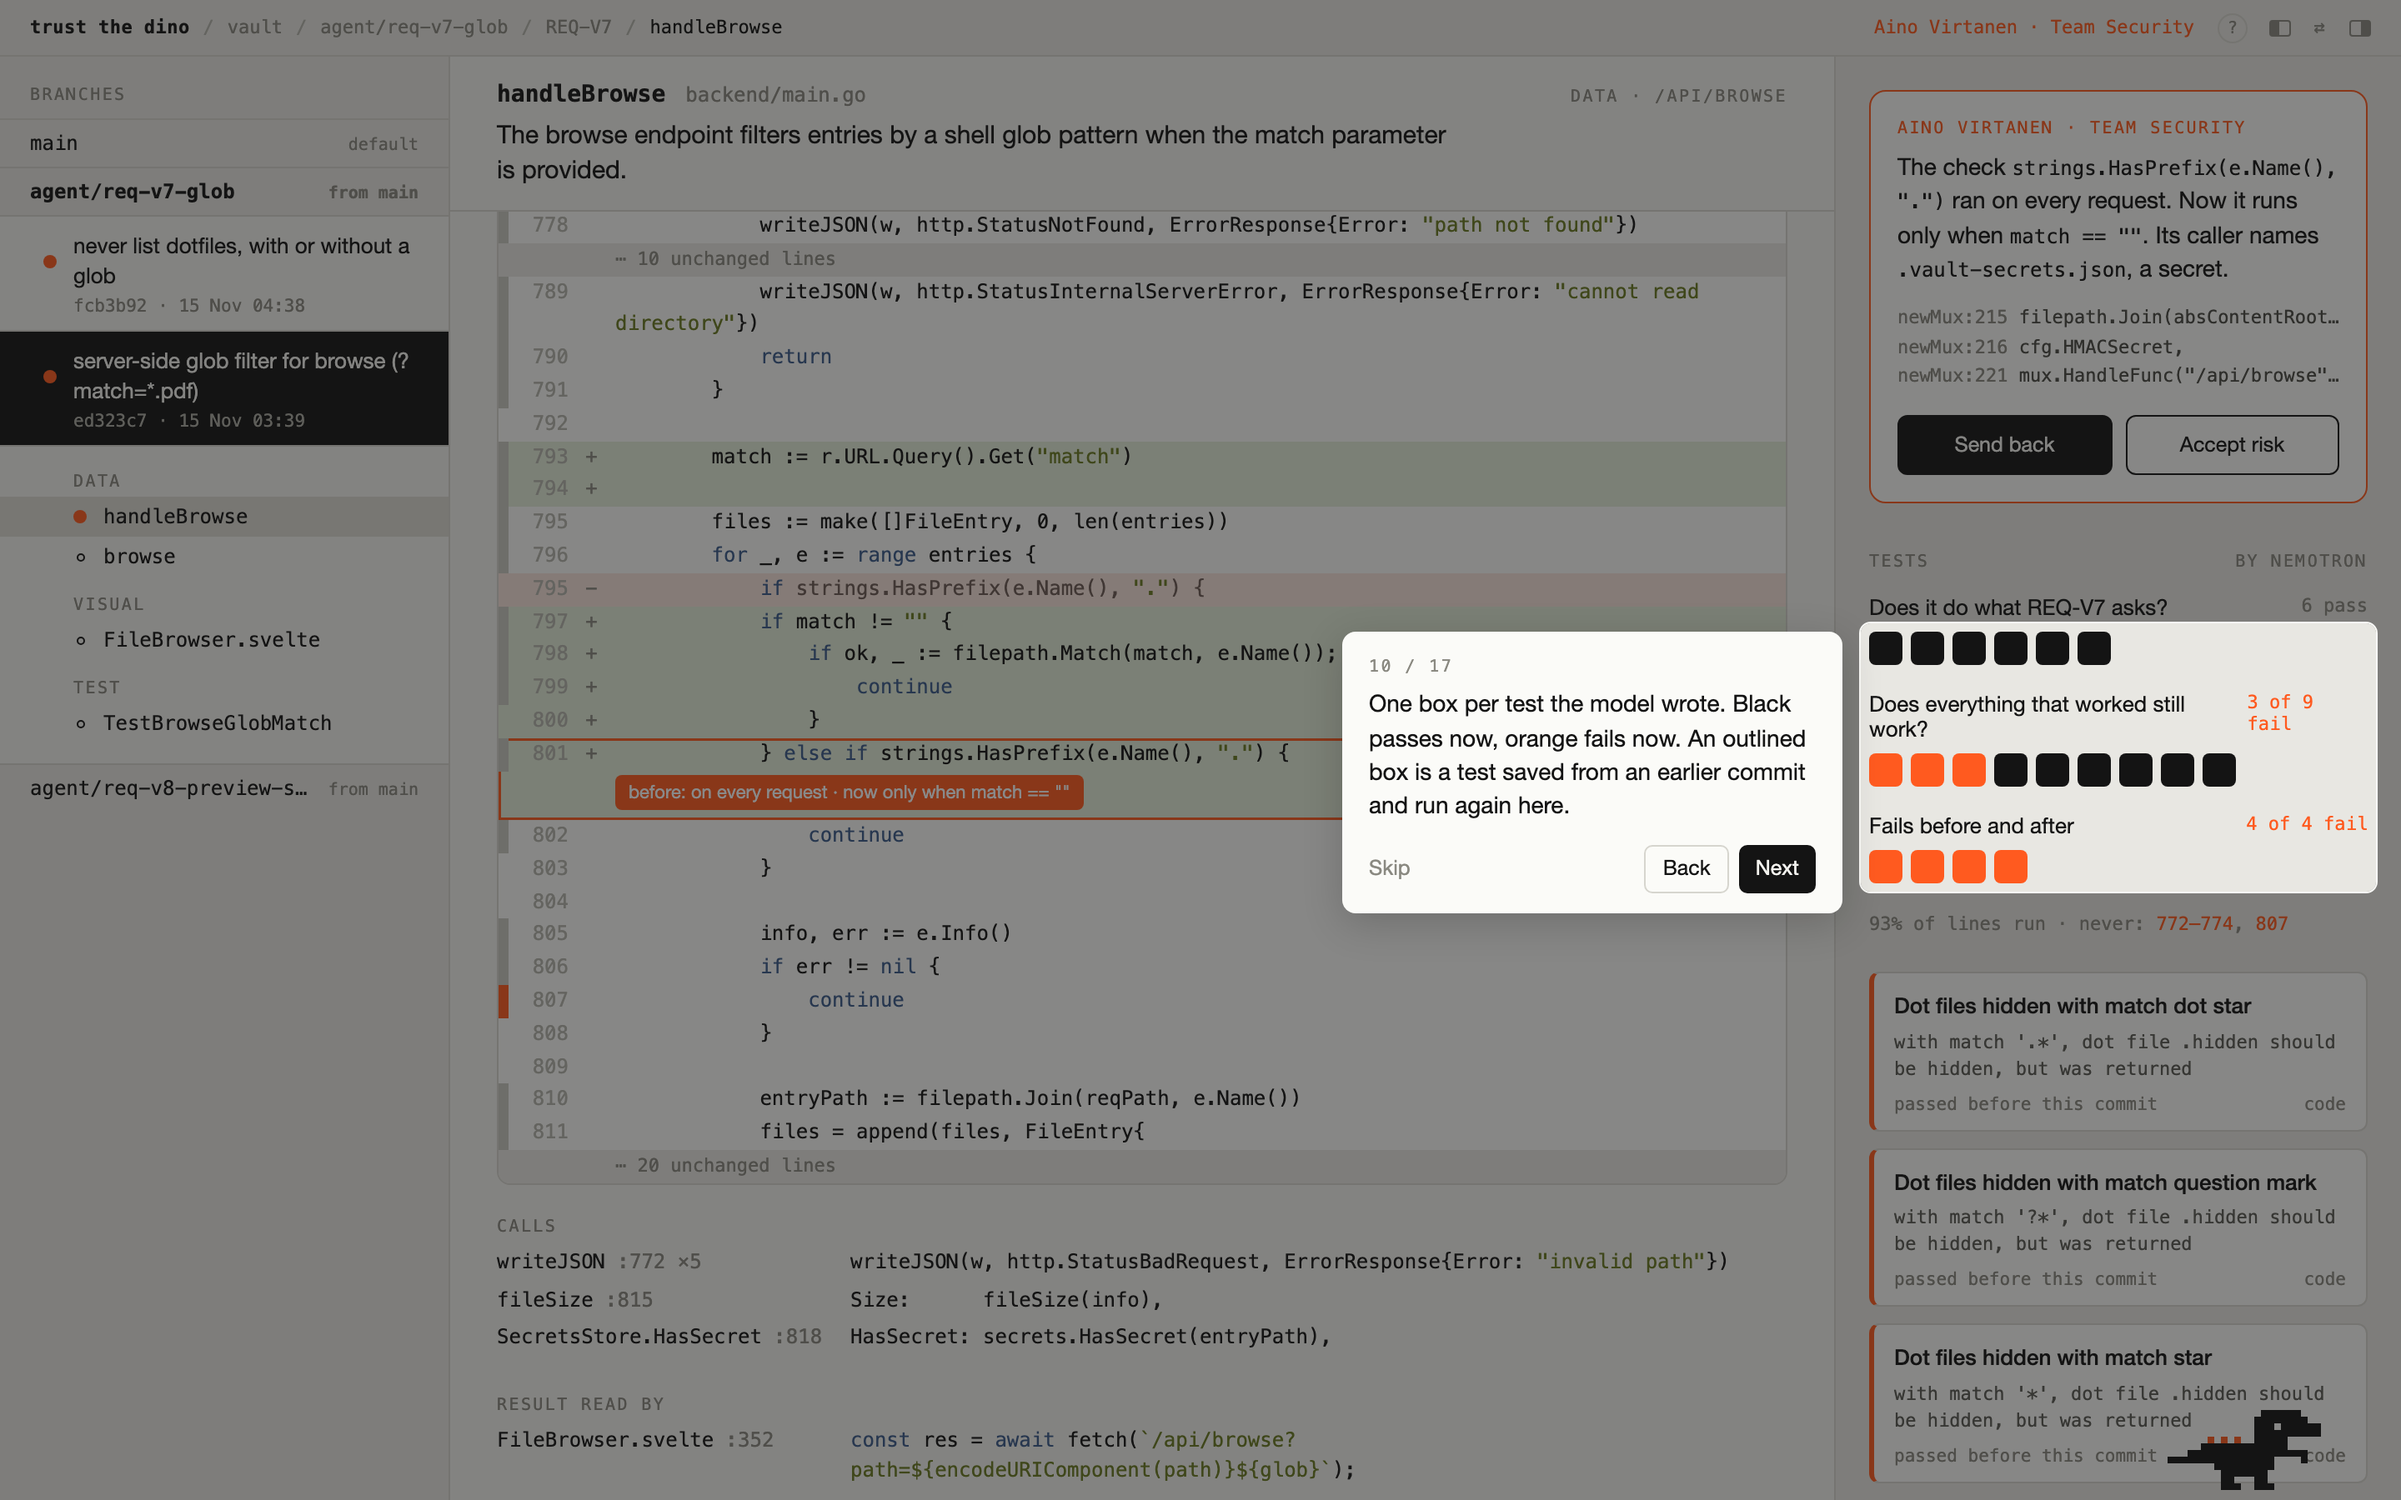
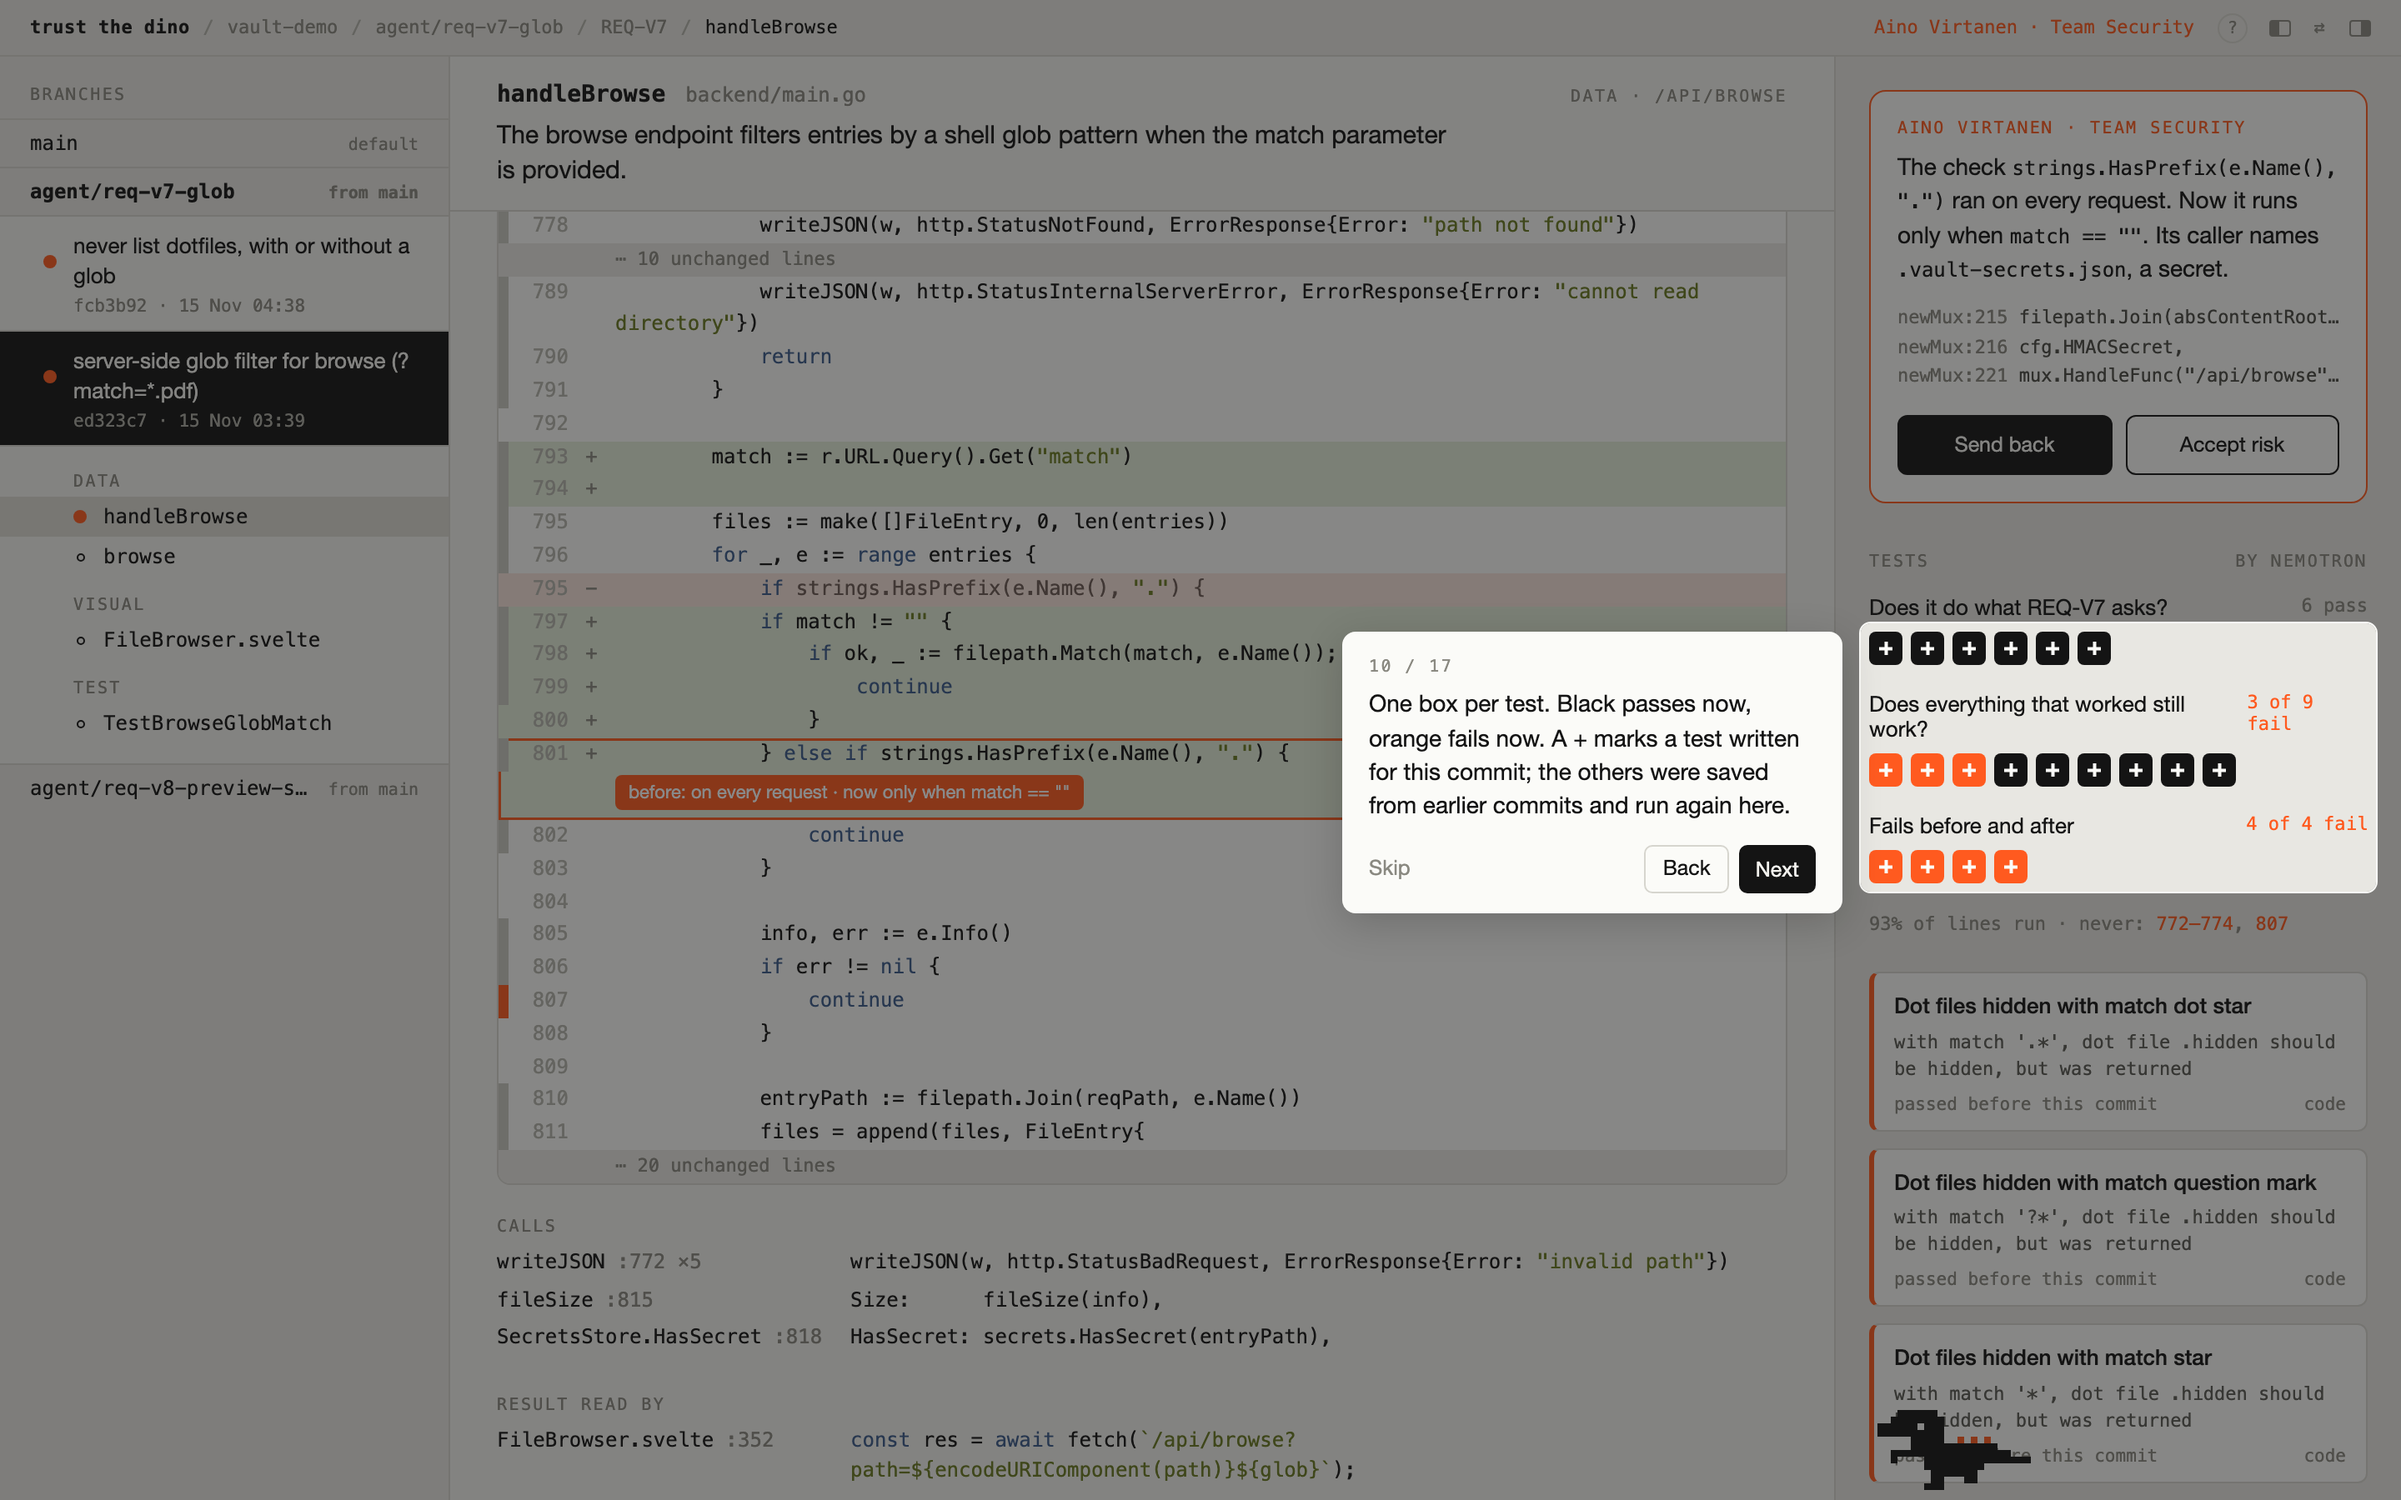
Test boxes: colour is the result now, + marks a test written for this commit; re-shot screenshots

diff --git a/web/review.js b/web/review.js
@@ -126,7 +126,7 @@ export function renderSide(el, d, caseId, u) {
       if (!group.length) continue;
       const bad = group.filter((t) => !t.head).length;
       h += `<div class="q"><h4>${esc(q.replace("%REQ%", d.case.id))}<span class="${bad ? "bad" : ""}">${bad ? `${bad} of ${group.length} fail` : `${group.length} pass`}</span></h4>
-        <div class="boxes">${group.map((t) => `<button class="box ${t.head ? "" : "fail"} ${t.origin === "kept" ? "kept" : ""}" data-test="${esc(t.name)}" aria-label="${esc(sentence(t.name))}"></button>`).join("")}</div></div>`;
+        <div class="boxes">${group.map((t) => `<button class="box ${t.head ? "" : "fail"} ${t.origin === "kept" ? "kept" : "new"}" data-test="${esc(t.name)}" aria-label="${esc(sentence(t.name))}"></button>`).join("")}</div></div>`;
     }
     const cov = u.tests.coverage;
     if (cov != null) {
@@ -168,7 +168,7 @@ export function wireReview(ctx, rerender) {
       const t = tests(u).find((x) => x.name === box.dataset.test);
       t.lines.forEach((n) => document.getElementById("L" + n)?.classList.add("lit"));
       box.classList.add("lit");
-      const kept = (t.origin === "kept" ? ` · kept, written for ${esc(c.label(t.written_for))}` : "")
+      const kept = (t.origin === "kept" ? ` · kept, written for ${esc(c.label(t.written_for))}` : " · new, written for this commit")
         + (t.status === "pending" ? " · trusted after merge" : "");
       showTip(ev, `${esc(sentence(t.name))}<span>${t.head ? "passes" : "fails"} now · ${t.base ? "passed" : "failed"} before · runs ${t.lines.length} lines${kept}</span>`);
       return;

diff --git a/web/style.css b/web/style.css
@@ -174,8 +174,12 @@ aside { background: var(--bg); overflow: auto; padding: 20px 20px 60px; }
 .box.fail { background: var(--hot); }
 .box.lit, .box:hover { outline: 2px solid var(--hot); outline-offset: 1.5px; }
 .box.fail.lit, .box.fail:hover { outline-color: var(--ink); }
-.box.kept { background: none; box-shadow: inset 0 0 0 1.5px var(--ink); }
-.box.kept.fail { box-shadow: inset 0 0 0 1.5px var(--hot); }
+/* "+" = a test written for this commit; no mark = saved from an earlier commit */
+.box { position: relative; }
+.box.new::before, .box.new::after { content: ""; position: absolute; left: 50%; top: 50%; background: var(--paper);
+  transform: translate(-50%, -50%); }
+.box.new::before { width: 8px; height: 1.5px; }
+.box.new::after { width: 1.5px; height: 8px; }
 .cov-line { font: 11px var(--mono); color: var(--mute); margin: 18px 0 0; }
 .cov-line button { color: var(--hot); }
 .cov-line button:hover { text-decoration: underline; }

diff --git a/web/tour.js b/web/tour.js
@@ -30,7 +30,7 @@ const STEPS = [
   { hash: V7, find: () => $$("#side .ask"),
     text: "The one decision a person must make: who decides, and the three lines that make it matter. The secrets file sits in the folder this function lists." },
   { hash: V7, find: () => $$("#side .boxes"),
-    text: "One box per test the model wrote. Black passes now, orange fails now. An outlined box is a test saved from an earlier commit and run again here." },
+    text: "One box per test. Black passes now, orange fails now. A + marks a test written for this commit; the others were saved from earlier commits and run again here." },
   { hash: V7, find: () => $$("#side .q h4"),
     text: "Tests answer two questions: does it do what the requirement asks, and does everything that worked still work." },
   { hash: V7, find: () => $$("#side .box.fail").slice(0, 1).map((b) => b.closest(".q")), hover: () => $$("#side .box.fail")[0],

diff --git a/README.md b/README.md
@@ -16,7 +16,8 @@ at what they have to decide. Built for Junction 2026 (Tieto: Earned Trust in AI 
   fails before and passes after proves the requirement; passed before and fails now is a regression.
   Each test knows the exact lines it runs.
 - **Tests are kept.** Tests whose intent is trusted are saved per project and run again on later
-  commits; a requirement's tests join only after a human merges it.
+  commits; a requirement's tests join only after a human merges it. In the review each test is a box:
+  black passes, orange fails, and a + marks a test written for this commit.
 - **Visual changes** are shown as before/after screenshots of the real app at both commits.
 - **The dino** walks along the bottom. Click it to ask about the open commit; it answers only from
   that commit's review and never makes the decision.
